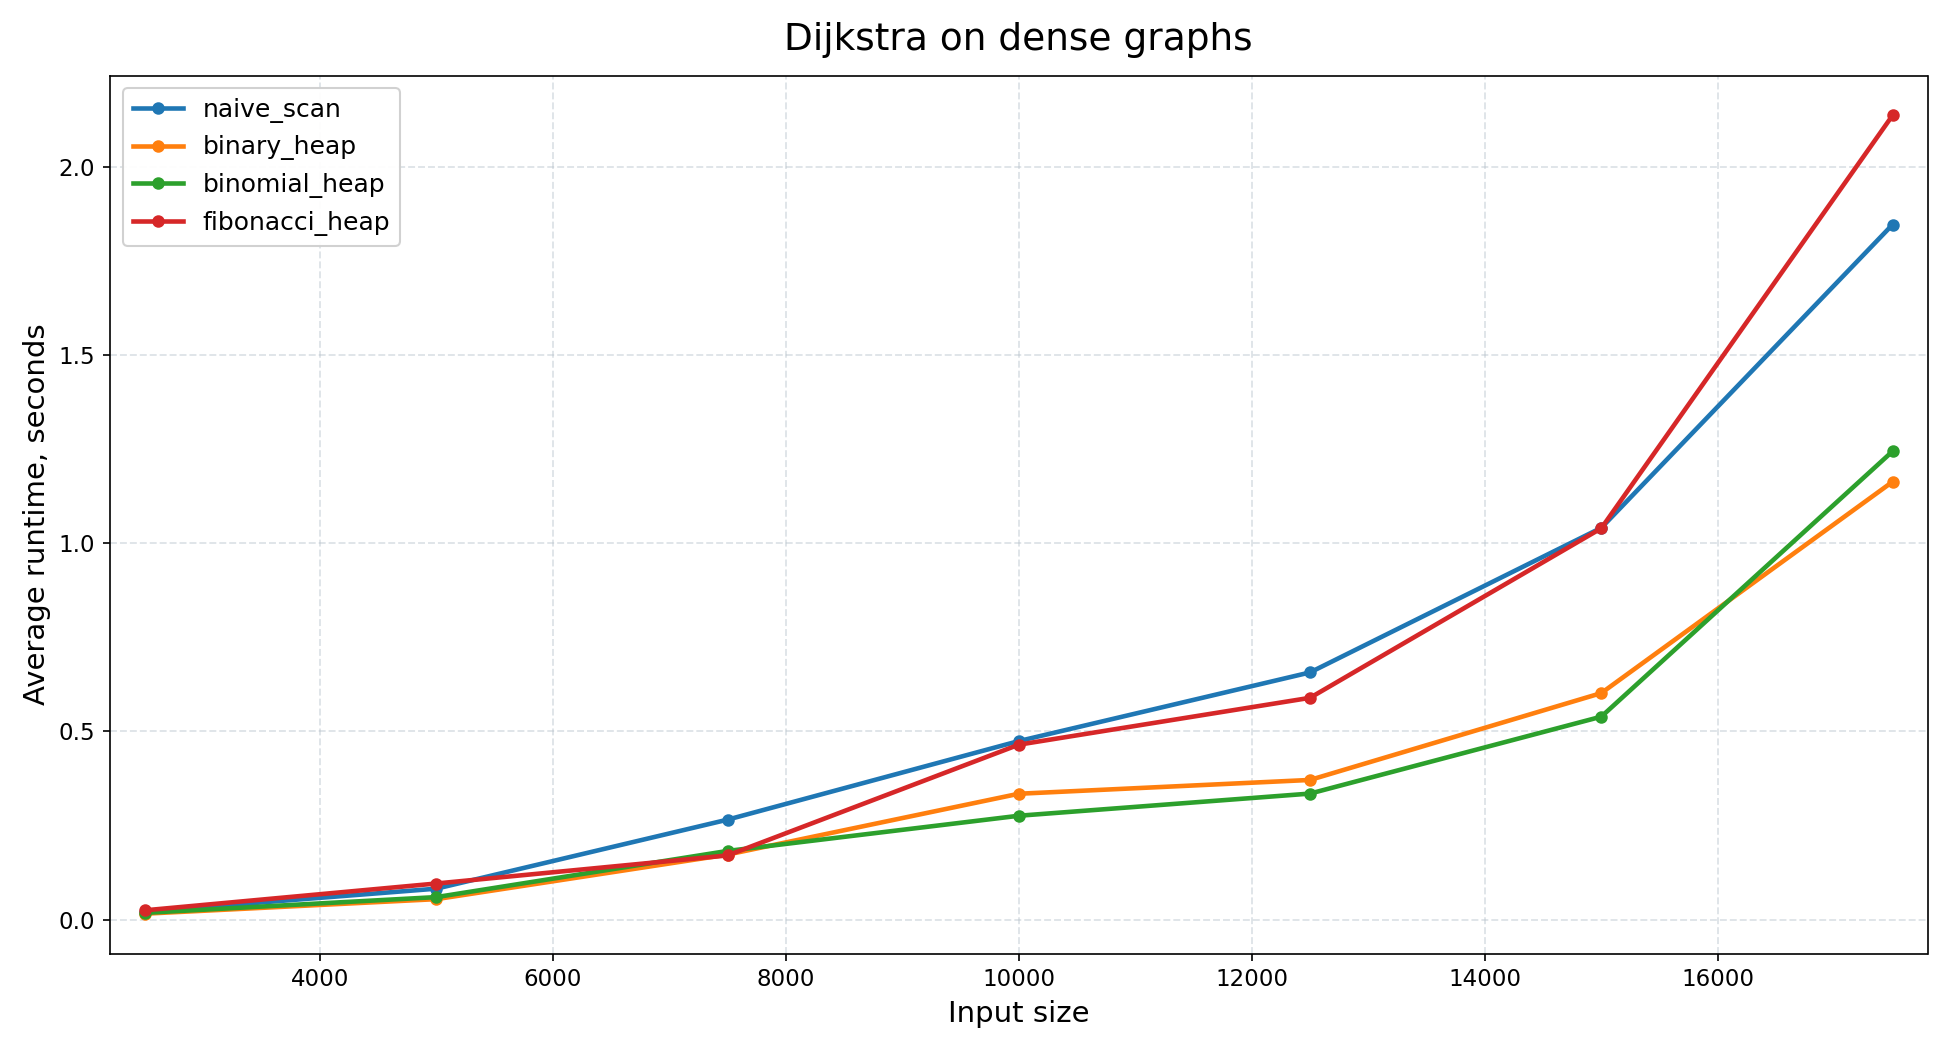
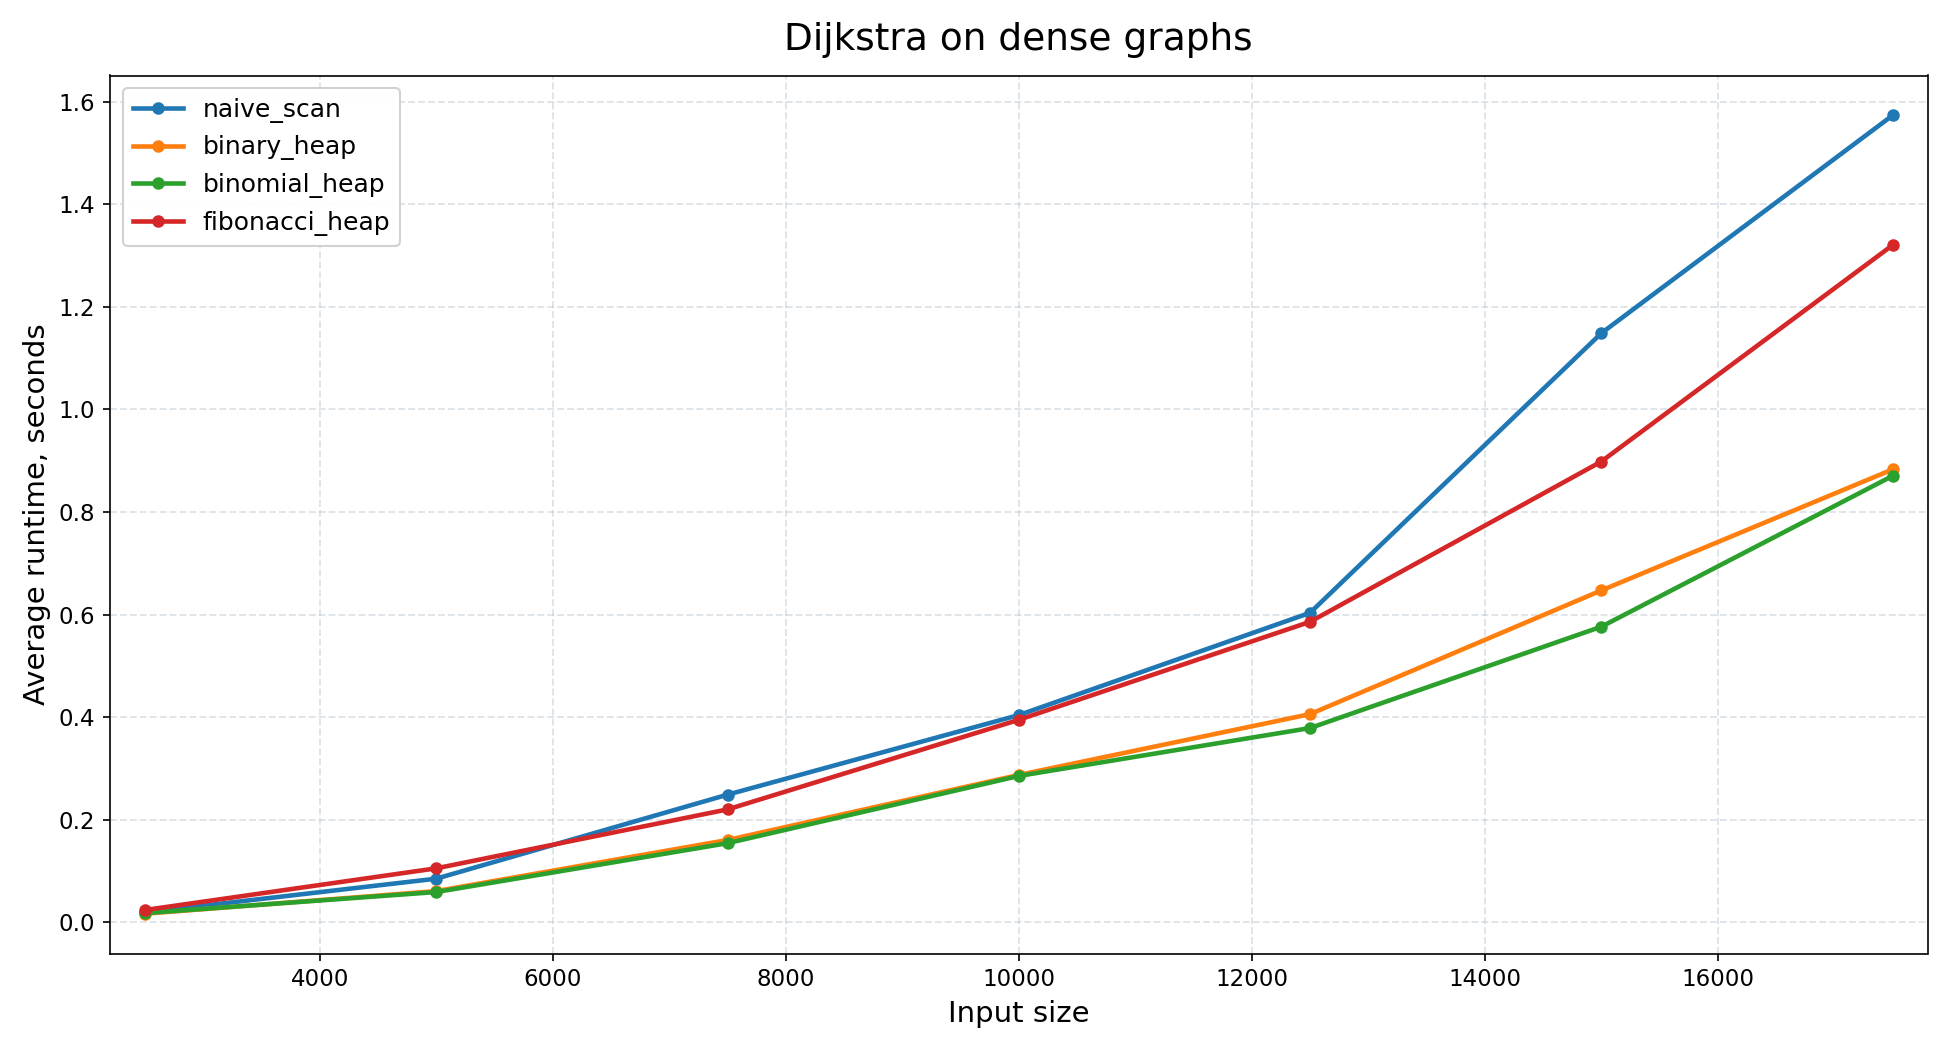
Macos compability

diff --git a/lab3/source/testing.c b/lab3/source/testing.c
@@ -174,12 +174,6 @@ static testing_status_t convert_dijkstra_status(dijkstra_status_t status) {
     }
 }
 
-static double monotonic_seconds(void) {
-    struct timespec time_spec = {0};
-    clock_gettime(CLOCK_MONOTONIC, &time_spec);
-    return (double)time_spec.tv_sec + (double)time_spec.tv_nsec / 1000000000.0;
-}
-
 static unsigned mix_instance_seed(unsigned base_seed, size_t size, size_t copy_idx) {
     uint64_t value = ((uint64_t)base_seed << 32U) ^
                      ((uint64_t)size * 0x9E3779B97F4A7C15ULL) ^
@@ -528,9 +522,9 @@ static testing_status_t benchmark_dijkstra_group(const graph_benchmark_config_t 
             for (size_t runner_idx = 0U; runner_idx < count && result == TESTING_STATUS_OK; ++runner_idx) {
                 uint64_t *target = (runner_idx == 0U) ? reference : buffer;
 
-                double start = monotonic_seconds();
+                clock_t start = clock();
                 dijkstra_status = runners[runner_idx].fn(graph, 0U, target);
-                double end = monotonic_seconds();
+                clock_t end = clock();
 
                 if (dijkstra_status != DIJKSTRA_STATUS_OK) {
                     LOGGER_ERROR("testing: runner '%s' failed for size=%zu copy=%zu with status=%d",
@@ -546,7 +540,8 @@ static testing_status_t benchmark_dijkstra_group(const graph_benchmark_config_t 
                     break;
                 }
 
-                averages[runner_idx * size_count + size_idx] += end - start;
+                averages[runner_idx * size_count + size_idx] +=
+                    (double)(end - start) / (double)CLOCKS_PER_SEC;
                 ++completed;
                 render_progress_bar(runners[runner_idx].name, completed, total_runs, size);
             }

diff --git a/lab3/binary_heap/source/binary_heap.c b/lab3/binary_heap/source/binary_heap.c
@@ -68,12 +68,6 @@ static void binary_heap_sift_down(int *data, size_t count, size_t index) {
     }
 }
 
-static double monotonic_seconds(void) {
-    struct timespec time_spec = {0};
-    clock_gettime(CLOCK_MONOTONIC, &time_spec);
-    return (double)time_spec.tv_sec + (double)time_spec.tv_nsec / 1000000000.0;
-}
-
 static heap_status_t binary_heap_benchmark_impl(int *work_arr, size_t n, double *build_seconds,
                                                 int *sorted_out, binary_build_fn build_fn) {
     SOFT_ASSERT_FUNCTIONAL(build_seconds != NULL && build_fn != NULL,
@@ -85,10 +79,10 @@ static heap_status_t binary_heap_benchmark_impl(int *work_arr, size_t n, double 
 
     binary_heap_t heap = {0};
 
-    double start = monotonic_seconds();
+    clock_t start = clock();
     heap_status_t status = build_fn(&heap, work_arr, n);
-    double end = monotonic_seconds();
-    *build_seconds = end - start;
+    clock_t end = clock();
+    *build_seconds = (double)(end - start) / (double)CLOCKS_PER_SEC;
 
     RETURN_IF_ERROR_CLEANUP(status != HEAP_STATUS_OK,
                             status,

diff --git a/lab3/binomial_heap/source/binomial_heap.c b/lab3/binomial_heap/source/binomial_heap.c
@@ -28,12 +28,6 @@ static heap_status_t translate_vector_status(vector_error_t status) {
     }
 }
 
-static double monotonic_seconds(void) {
-    struct timespec time_spec = {0};
-    clock_gettime(CLOCK_MONOTONIC, &time_spec);
-    return (double)time_spec.tv_sec + (double)time_spec.tv_nsec / 1000000000.0;
-}
-
 static size_t required_root_slots(size_t size) {
     size_t slots = 1U;
     while (size > 0U) {
@@ -298,10 +292,10 @@ heap_status_t binomial_heap_benchmark_inserts(int *work_arr, size_t n, double *b
 
     binomial_heap_t heap = {0};
 
-    double start = monotonic_seconds();
+    clock_t start = clock();
     heap_status_t status = binomial_heap_build_inserts(&heap, work_arr, n);
-    double end = monotonic_seconds();
-    *build_seconds = end - start;
+    clock_t end = clock();
+    *build_seconds = (double)(end - start) / (double)CLOCKS_PER_SEC;
 
     RETURN_IF_ERROR_CLEANUP(status != HEAP_STATUS_OK,
                             status,

diff --git a/lab3/README.md b/lab3/README.md
@@ -1,4 +1,4 @@
-# Лабораторная работа 4. Кучи
+# Лабораторная работа 3. Кучи
 
 ## Структура
 
@@ -7,7 +7,7 @@
 - `common/` — общие утилиты (`logger`, `asserts`, `vector`).
 - `binary_heap/` — реализация бинарной кучи.
 - `binomial_heap/` — реализация биномиальной.
-- `fibonacci_heap/` — ореализация фибоначчиевой кучи.
+- `fibonacci_heap/` — реализация фибоначчиевой кучи.
 - `scripts/` — генерация наборов, запуск точек и построение графиков.
 - `python/plot_results.py` — построение PNG-графиков по CSV.
 - `results/csv/` — результаты замеров.
@@ -70,10 +70,12 @@ make benchmark
 
 На размере `n = 1500000`:
 
-- `binary_heap_linear`: `0.022191014` с
-- `binary_heap_inserts`: `0.030661919` с
+- `binary_heap_linear`: `0.024328173` с
+- `binary_heap_inserts`: `0.036125230` с
 
-Линейный `heapify` получился примерно в `1.38x` быстрее последовательных вставок.
+Линейный `heapify` получился примерно в `1.48x` быстрее последовательных вставок.
+
+![Пункт 1: построение бинарной кучи](results/plots/point1.png)
 
 ### Пункт 2. Биномиальная куча
 
@@ -84,9 +86,11 @@ make benchmark
 
 На размере `n = 1500000`:
 
-- `binomial_heap_inserts`: `0.106762123` с
+- `binomial_heap_inserts`: `0.125825444` с
 
 По графику кривая выглядит почти линейной на выбранном диапазоне, но асимптотически построение остаётся `O(n log n)`.
+
+![Пункт 2: построение биномиальной кучи](results/plots/point2.png)
 
 ### Пункт 3*. Дейкстра и фибоначчиева куча
 
@@ -99,29 +103,34 @@ make benchmark
 
 На разреженных графах при `n = 17500`:
 
-- `dijkstra_naive`: `0.916679345` с
-- `dijkstra_binary_heap`: `0.009969336` с
-- `dijkstra_binomial_heap`: `0.017981514` с
-- `dijkstra_fibonacci_heap`: `0.199346174` с
+- `dijkstra_naive`: `0.960889267` с
+- `dijkstra_binary_heap`: `0.010112411` с
+- `dijkstra_binomial_heap`: `0.019242575` с
+- `dijkstra_fibonacci_heap`: `0.206381889` с
+
+![Пункт 3: Дейкстра на разреженных графах](results/plots/point3_sparse.png)
 
 На плотных графах при `n = 17500`:
 
-- `dijkstra_naive`: `1.847506063` с
-- `dijkstra_binary_heap`: `1.163849413` с
-- `dijkstra_binomial_heap`: `1.244846080` с
-- `dijkstra_fibonacci_heap`: `2.137849253` с
+- `dijkstra_naive`: `1.573417901` с
+- `dijkstra_binary_heap`: `0.883016086` с
+- `dijkstra_binomial_heap`: `0.870365137` с
+- `dijkstra_fibonacci_heap`: `1.320376922` с
+
+![Пункт 3: Дейкстра на плотных графах](results/plots/point3_dense.png)
 
 Выводы по звёздочному пункту:
 
-- на `sparse` графах выигрыш бинарной кучи над наивной версией на `n = 17500` получлся примерно `91.9x`;
+- на `sparse` графах выигрыш бинарной кучи над наивной версией на `n = 17500` получился примерно `95.0x`;
 - биномиальная куча на `sparse` выигрывает у наивного варианта, но уступает бинарной из-за больших констант;
-- фибоначчиева куча в этой реализации не обогнала бинарную и биномиальнуюе;
-- на `dense` графах различия между бинарной и биномиальной оказывается достаточно малой, около `1.07x`;
-- на `dense` бинарная куча осталась лучшей среди heap-вариантов на выбранном диапазоне.
+- фибоначчиева куча в этой реализации не обогнала бинарную и биномиальную;
+- на `dense` графах различия между бинарной и биномиальной оказались очень малыми, около `1.01x`;
+- на `dense` при `n = 17500` биномиальная куча оказалась чуть быстрее бинарной, но разница близка к шуму измерений.
 
 ## Итог
 
-- линейное построение бинарной кучи существекно лучше последовательных вставок;
+- линейное построение бинарной кучи существенно лучше последовательных вставок;
 - биномиальная куча строится сильно медленнее бинарной линейной heapify;
 - для Дейкстры на разреженных графах самая быстрая реализация — бинарная куча;
+- для Дейкстры на плотных графах бинарная и биномиальная кучи идут почти одинаково, с небольшим преимуществом биномиальной на максимальном размере;
 - фибоначчиева куча проигрывает (вероятно из-за высоких констант);
